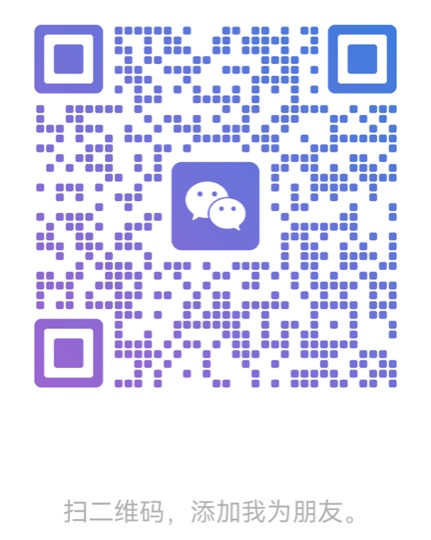
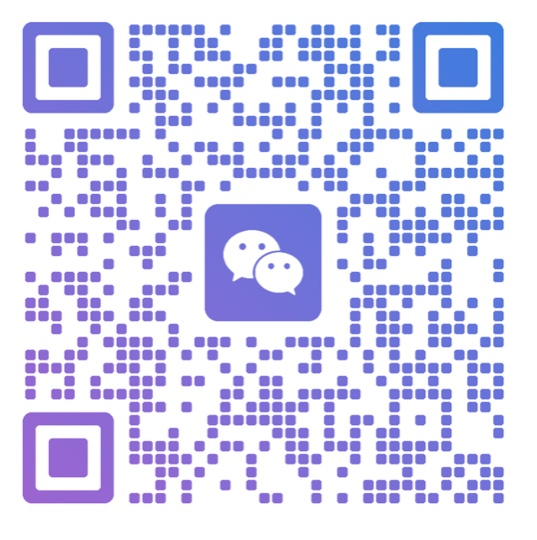
更换微信、小红书二维码为新版方图

diff --git a/contact.html b/contact.html
@@ -55,7 +55,7 @@
         <div class="qr-box"><span data-i18n="contact.qr.empty"></span></div>
         <div class="label" data-i18n="contact.qr.wechat"></div>
       </div>
-      <div class="qr-item" data-qr="images/contact/xhs-qr.jpg" data-qr-pos="right">
+      <div class="qr-item" data-qr="images/contact/xhs-qr.jpg">
         <div class="qr-box"><span data-i18n="contact.qr.empty"></span></div>
         <div class="label" data-i18n="contact.qr.xhs"></div>
       </div>
